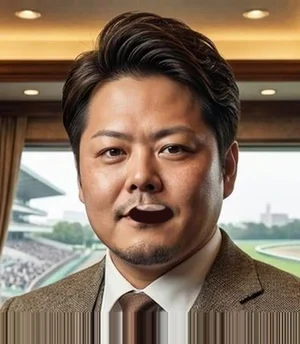
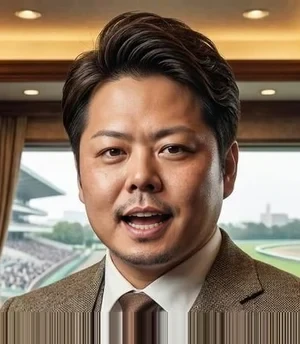
実況（写真の版）の口パクを作り直す（オーナー「川崎タカシの実写の口パクが壊れています」: 09-30 の 3 枚は口ひげの上に平たい黒い楕円を貼ったもの）— 閉じた写真を Codex に渡し口だけ開けた写真を作らせ、口のまわりの楕円（差から測った位置）だけを貼る道具 compose-narrator-mouth（頭は 1 枚・楕円の外の差 3.5〜4.1/255）／小窓テレビ: レース中に本編がテレビに覆われ芝だけ映っていた（同じ升でテレビが後ろ → 本編を上に）／紹介の馬の枠を 54% に広げる（オーナー「右の余白を使えばいい」）

Changed region(s): [[0.36, 0.5814, 0.6, 0.7849]]

diff --git a/apps/web/src/components/uma/channel-tv.css b/apps/web/src/components/uma/channel-tv.css
@@ -5,14 +5,14 @@
 [data-theme='uma'] .u-tv {
   --tv-hdr: 20px; --tv-ftr: 18px; --tv-top: 24px; --tv-bottom: 22px; --tv-pad: 8px;
   --tv-s: 11px; --tv-m: 13px; --tv-l: 16px; --tv-xl: 20px; --tv-huge: 40px; --tv-narr: 14px;
-  --tv-row: 20px; --tv-face: 72px; --tv-thumb: 120px; --tv-oval-w: 150px; --tv-oval-h: 84px; --tv-going: 34px; --tv-cols: 1;
+  --tv-row: 20px; --tv-face: 72px; --tv-thumb: 54%; --tv-oval-w: 150px; --tv-oval-h: 84px; --tv-going: 34px; --tv-cols: 1;
   position: relative; width: 100%; aspect-ratio: 16 / 9; overflow: hidden; border-radius: 4px; background: #0a2340;
   font-family: 'M PLUS Rounded 1c', system-ui, sans-serif; font-weight: 800; color: #fbf7ec; line-height: 1.3;
 }
 [data-theme='uma'] .u-tv[data-size='pc'] {
   --tv-hdr: 22px; --tv-ftr: 20px; --tv-top: 27px; --tv-bottom: 24px; --tv-pad: 10px;
   --tv-l: 17px; --tv-xl: 22px; --tv-huge: 46px; --tv-narr: 15px;
-  --tv-row: 24px; --tv-face: 84px; --tv-thumb: 140px; --tv-oval-w: 170px; --tv-oval-h: 96px; --tv-going: 40px; --tv-cols: 2;
+  --tv-row: 24px; --tv-face: 84px; --tv-thumb: 54%; --tv-oval-w: 170px; --tv-oval-h: 96px; --tv-going: 40px; --tv-cols: 2;
 }
 [data-theme='uma'] .u-tv .u-num { font-family: 'Saira Condensed', system-ui, sans-serif; font-weight: 700; font-variant-numeric: tabular-nums; }
 [data-theme='uma'] .u-tv-s { font-size: var(--tv-s); }
@@ -136,7 +136,8 @@
 [data-theme='uma'] .u-tv-horse { flex: 1 1 auto; display: flex; gap: 10px; min-height: 0; }
 [data-theme='uma'] .u-tv-horse-thumb { flex: 0 0 var(--tv-thumb); position: relative; border-radius: 8px; overflow: hidden; background: url('/art/uma/turf-near.webp') repeat 0 0 / 500px 30px; }
 /* ★顔が切れない（★2026-10-01 オーナー指摘「馬の顔が切れています」・★旧 115% で右端の顔がはみ出した）→ ★枠の幅に収める */
-[data-theme='uma'] .u-tv-horse-art { position: absolute; inset: 22px 4px 4px; background: no-repeat center bottom / contain; }
+/* ★2026-10-01 オーナー「右に余白があるのだから 馬を小さくしなくても余白を使えばいい」→ ★枠を 54% に広げ（★旧 120/140px）、★馬を枠いっぱいに */
+[data-theme='uma'] .u-tv-horse-art { position: absolute; inset: 20px 2px 2px; background: no-repeat center bottom / contain; }
 [data-theme='uma'] .u-tv-horse-gate { position: absolute; left: 4px; top: 4px; width: 24px; height: 20px; }
 [data-theme='uma'] .u-tv-horse-info { flex: 1 1 auto; min-width: 0; display: flex; flex-direction: column; gap: 4px; }
 [data-theme='uma'] .u-tv-chips { display: flex; gap: 4px; flex-wrap: wrap; }
@@ -230,7 +231,12 @@
    ★**置き場**（★README §2）
    ════════════════════════════════════════════════════════════════════════ */
 /* ★PC の大型ビジョン: ★テレビは 画面の升（2 段目）に。★「次」と掲示板の段は テレビの下の帯へ移したので 畳む */
-[data-theme='uma'] .u-race-strip-vision > .u-vision-tv { grid-row: 2; grid-column: 1; width: 100%; min-width: 0; }
+[data-theme='uma'] .u-race-strip-vision > .u-vision-tv { grid-row: 2; grid-column: 1; width: 100%; min-width: 0; z-index: 0; }
+/*
+  🔴 ★本編は テレビの上（★2026-10-01 オーナー「小窓ではレースが映らない。ずっと芝だけ。拡大すると走っている」）:
+  ★同じ升に重ねていて ★後に置いたテレビが 本編の iframe を覆っていた。
+*/
+[data-theme='uma'] .u-race-strip-vision > .u-race-strip-stage:not(.u-race-strip-stage-offscreen):not(.u-race-strip-stage-full) { z-index: 1; }
 [data-theme='uma'] .u-race-strip-vision:has(> .u-vision-tv) > .u-race-strip-main { display: none; }
 
 /* ★スマホ（★帯の枠・背景は使わない・★テレビの枠だけ） */
